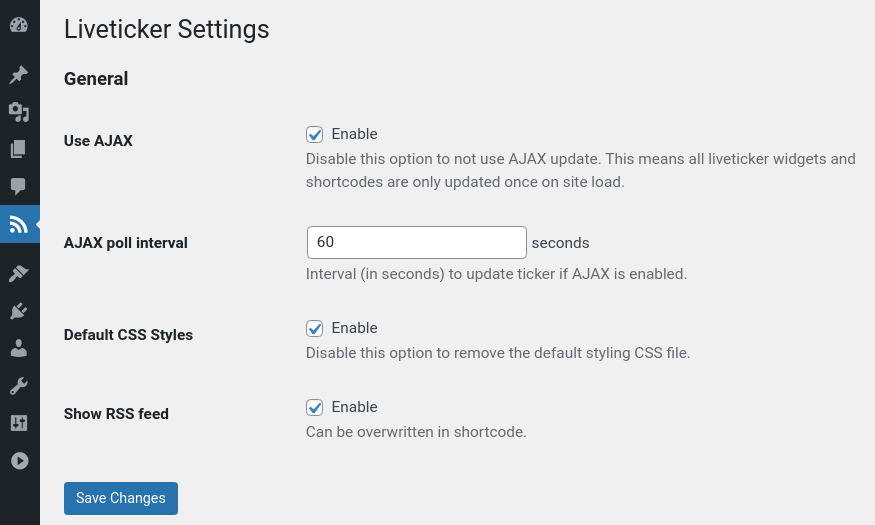
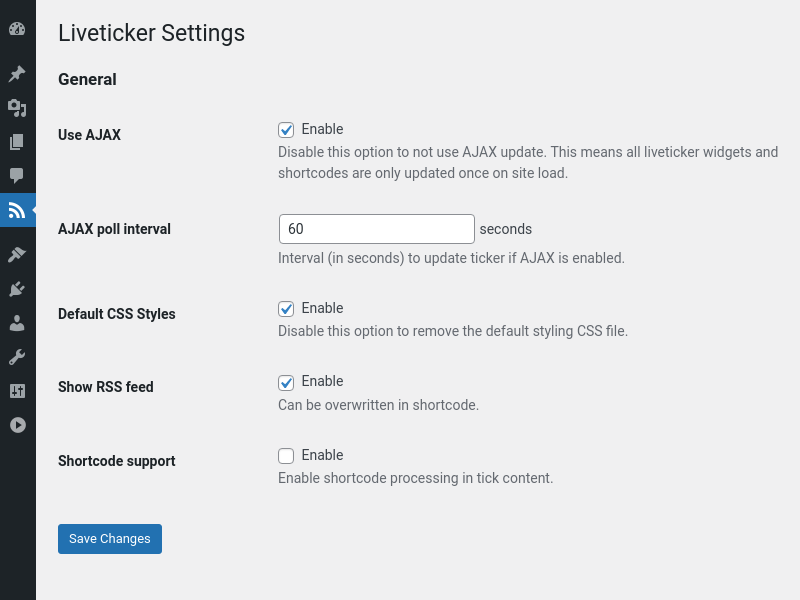
add optional shortcode support for tick content (#18) (#19)
If the new option is enabled, tick content will be piped through
do_shortcode() to parse nested shortcode content. Disabled by default
as it is not necessary in most cases.

diff --git a/includes/class-admin.php b/includes/class-admin.php
@@ -107,6 +107,15 @@ class Admin extends SCLiveticker {
 			'scliveticker_settings_general',
 			array( 'label_for' => esc_attr( self::OPTION ) . '-show-feed' )
 		);
+
+		add_settings_field(
+			'enable_shortcode',
+			__( 'Shortcode support', 'stklcode-liveticker' ),
+			array( __CLASS__, 'settings_enable_shortcode_field' ),
+			'scliveticker-settings-page',
+			'scliveticker_settings_general',
+			array( 'label_for' => esc_attr( self::OPTION ) . '-enable-shortcode' )
+		);
 	}
 
 	/**
@@ -179,6 +188,21 @@ class Admin extends SCLiveticker {
 	}
 
 	/**
+	 * Render enable css field.
+	 *
+	 * @return void
+	 *
+	 * @since 1.2
+	 */
+	public static function settings_enable_shortcode_field() {
+		$checked = self::$options['enable_shortcode'];
+
+		echo '<input id="' . esc_attr( self::OPTION ) . '-enable-shortcode" type="checkbox" name="' . esc_attr( self::OPTION ) . '[enable_shortcode]" value="1" ' . checked( $checked, 1, false ) . ' /> ';
+		esc_html_e( 'Enable', 'stklcode-liveticker' );
+		echo '<p class="description">' . esc_html__( 'Enable shortcode processing in tick content.', 'stklcode-liveticker' ) . '</p>';
+	}
+
+	/**
 	 * Render the settings page.
 	 *
 	 * @return void
@@ -197,10 +221,11 @@ class Admin extends SCLiveticker {
 	public static function validate_settings( $input ) {
 		$defaults = self::default_options();
 
-		$result['enable_ajax']   = isset( $input['enable_ajax'] ) ? intval( $input['enable_ajax'] ) : 0;
-		$result['poll_interval'] = isset( $input['poll_interval'] ) ? intval( $input['poll_interval'] ) : $defaults['poll_interval'];
-		$result['enable_css']    = isset( $input['enable_css'] ) ? intval( $input['enable_css'] ) : 0;
-		$result['show_feed']     = isset( $input['show_feed'] ) ? intval( $input['show_feed'] ) : 0;
+		$result['enable_ajax']      = isset( $input['enable_ajax'] ) ? intval( $input['enable_ajax'] ) : 0;
+		$result['poll_interval']    = isset( $input['poll_interval'] ) ? intval( $input['poll_interval'] ) : $defaults['poll_interval'];
+		$result['enable_css']       = isset( $input['enable_css'] ) ? intval( $input['enable_css'] ) : 0;
+		$result['show_feed']        = isset( $input['show_feed'] ) ? intval( $input['show_feed'] ) : 0;
+		$result['enable_shortcode'] = isset( $input['enable_shortcode'] ) ? intval( $input['enable_shortcode'] ) : 0;
 
 		return $result;
 	}

diff --git a/includes/class-scliveticker.php b/includes/class-scliveticker.php
@@ -418,11 +418,12 @@ class SCLiveticker {
 	 */
 	protected static function default_options() {
 		return array(
-			'enable_ajax'    => 1,
-			'poll_interval'  => 60,
-			'enable_css'     => 1,
-			'show_feed'      => 0,
-			'reset_settings' => 0,
+			'enable_ajax'      => 1,
+			'poll_interval'    => 60,
+			'enable_css'       => 1,
+			'show_feed'        => 0,
+			'enable_shortcode' => 0,
+			'reset_settings'   => 0,
 		);
 	}
 
@@ -437,6 +438,10 @@ class SCLiveticker {
 	 * @return string HTML code of tick.
 	 */
 	private static function tick_html( $time, $title, $content, $id ) {
+		if ( self::$options['enable_shortcode'] ) {
+			$content = do_shortcode( $content );
+		}
+
 		return '<li class="sclt-tick" data-sclt-tick-id="' . esc_attr( $id ) . '">'
 			. '<span class="sclt-tick-time">' . esc_html( $time ) . '</span>'
 			. '<span class="sclt-tick-title">' . esc_html( $title ) . '</span>'

diff --git a/README.md b/README.md
@@ -85,6 +85,7 @@ caching time of 12 hours obviously makes no sense.
 * Requires WordPress 4.7 or above
 * Migrated AJAX to REST API
 * Resolved Javascript compatibility issues with IE11
+* Added optional shortcode support for tick content
 
 ### 1.1.1 - 2021-03-20
 
